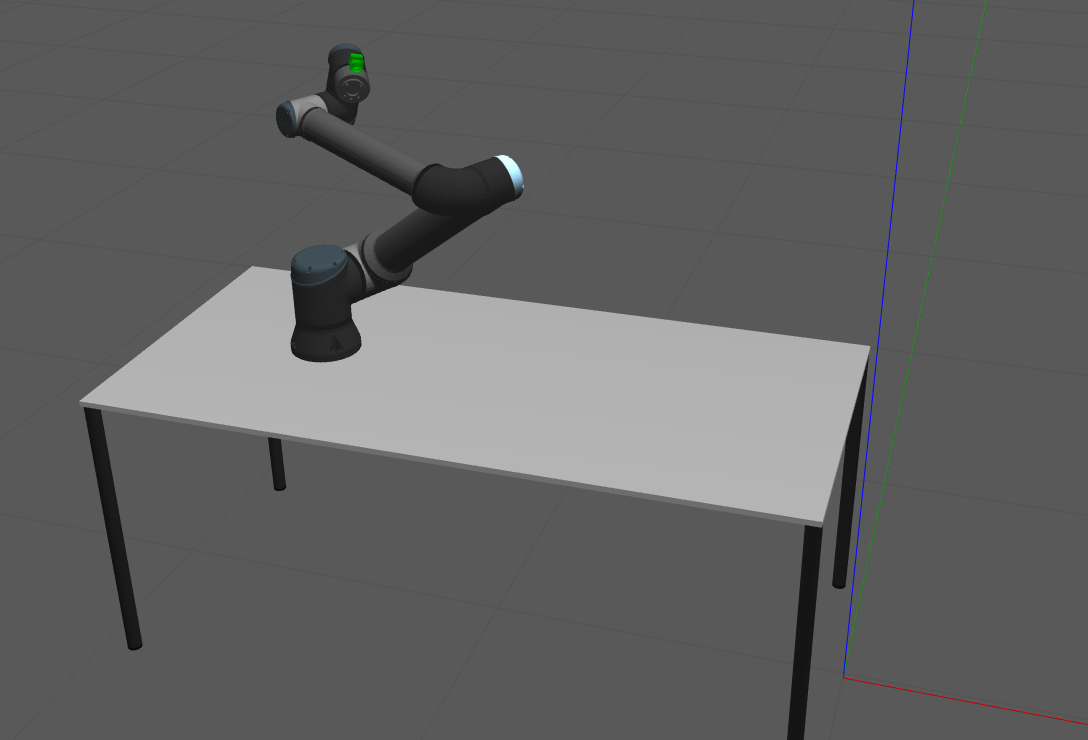
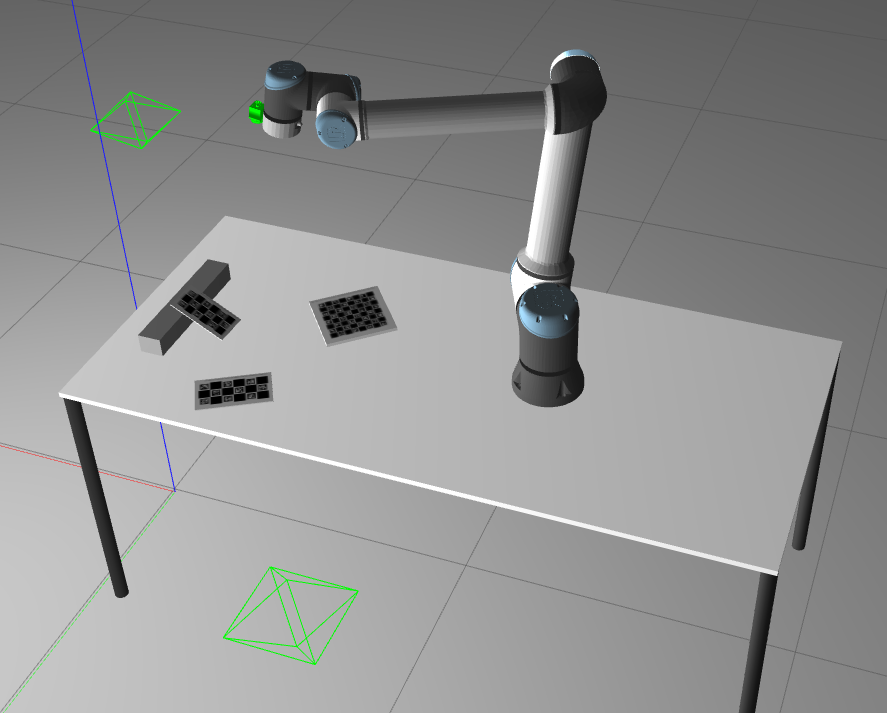
Close #781 . Calibration upd and running, readme udated.

diff --git a/atom_examples/rihmpbot/README.md b/atom_examples/rihmpbot/README.md
@@ -1,6 +1,6 @@
 # RIHMPBOT
 
-The **R**GB **i**n **h**and with **m**ultiple **p**atterns ro**bot** (**rihmpbot**) is a simulated robotic system used to evaluate hand eye calibrations in ATOM.
+The **R**GB **i**n **h**and with **m**ultiple **p**atterns ro**bot** (**rihmpbot**) is a simulated robotic system used to test calibrations with multiple patterns in ATOM.
 
 ![gazebo](docs/system.png)
 
@@ -15,11 +15,16 @@ The system contains the following topics:
   - /joint_states
 
 Since this is a systems to test calibration, where frame rate is not a critical issue, we restrained images topics to 10Hz.
-This is a simulated system, which can be seen in gazebo:
 
-![gazebo](docs/gazebo.png)
+The scene contains 3 static calibration patterns placed on top of the table:
 
-... and in rviz:
+  - charuco, size 170x100 millimeters, corners layout 3x6, aruco dictionary 6x6
+  - charuco, size 200x120 millimeters, corners layout 3x6, aruco dictionary 7x7
+  - charuco, size 200x200 millimeters, corners layout 8x8, aruco dictionary 4x4
+
+Note that ATOM is able to distinguish between patterns because each pattern has an unique aruco dictionary configuration. If a calibration configuration two patterns with the same aruco dictionary, ATOM calibration package configuration should abort.
+
+This is a simulated system, which can be seen in gazebo, as shown above, and in rviz, as shown next:
 
 ![rviz](docs/rviz.png)
 
@@ -45,9 +50,8 @@ As always, we recommend a careful reading of the [documentation](https://lardemu
 
 In this section, out goal is to describe the calibration pipeline for the **rihmpbot**.
 
-To calibrate, we will need a bagfile called [train.bag](https://drive.google.com/file/d/1_YYIaJfvP8G7_mBr3oT7S7RkVTymu2pb/view?usp=sharing), which contains a recording of the system's data when viewing a calibration pattern in several positions.
+To calibrate, we will need a bagfile called [train.bag](https://drive.google.com/file/d/1ryaW0MBhaUYH-kx_hle2ztkzLRCiuuLt/view?usp=sharing), which contains a recording of the system's data when viewing a calibration pattern in several positions.
 We produced the bagfile by bringing up the system and then recording a bagfile as described above.
-This is a bagfile with 140 seconds / 115MB for demonstration purposes. Typically, calibration bagfiles are larger.
 
 Download the bagfile and put it in **$ROS_BAGS/rihmpbot**.
 
@@ -66,7 +70,7 @@ Using ATOM conventions, we define name of the calibration package as **rihmpbot_
 
 ## Configuring the calibration
 
-This is the [config.yml](https://github.com/lardemua/atom/blob/noetic-devel/atom_examples/rihmpbot/rihmpbot_calibration/calibration/config.yml) that we wrote to define the calibration. There is a single sensor to be calibrated, named **rgb_hand**. The pattern is a charuco marker.
+This is the [config.yml](https://github.com/lardemua/atom/blob/noetic-devel/atom_examples/rihmpbot/rihmpbot_calibration/calibration/config.yml) that we wrote to define the calibration. There is a single sensor to be calibrated, named **rgb_hand**. As discussed before, we have three charuco patterns.
 The configuration file points to the train bagfile mentioned above, and the _anchored_sensor_ is not defined.
 
 To configure run:
@@ -89,7 +93,7 @@ To collect a dataset we run:
 
 And save a few collections.
 
-We will use as example the [train](https://drive.google.com/file/d/1YlFdik-38zhtI8fByY27XR7pxYdN-h_9/view?usp=sharing) dataset, which contains 11 collections. Some are shown below.
+We will use as example the [train](https://drive.google.com/file/d/1PJ-nb-BEBhcB2Nsn4M84ttXWGGQkLySQ/view?usp=sharing) dataset, which contains 14 collections. Some are shown below.
 
 Download and decompress the dataset to **$ATOM_DATASETS/rihmpbot/train**.
 
@@ -97,8 +101,8 @@ Collection |           rgb_hand
 :----------------:|:-------------------------:
 0 | ![](docs/rgb_hand_000.jpg)
 1 | ![](docs/rgb_hand_001.jpg)
-2 | ![](docs/rgb_hand_009.jpg)
-3 | ![](docs/rgb_hand_010.jpg)
+9 | ![](docs/rgb_hand_009.jpg)
+10 | ![](docs/rgb_hand_010.jpg)
 
 
 ## Running the Calibration
@@ -127,29 +131,3 @@ which are quite high, because of the incorrect pose of the sensors,  and ends up
 
 Which shows subpixel accuracy. This means the procedure achieved a successful calibration.
 
-During calibration We can see all collections in the system and, as the calibration progresses, the estimated transformations will be applied to the visualization. The table below shows the positioning of the **rgb_hand** sensor before the calibration starts (using nig 0.1 0.1), and after the calibration is carried out.
-
-
-View |           Before calibration             |           After calibration
-:----------------:|:-------------------------:|:-------------------------:
-All collections | ![](docs/3.png) |  ![](docs/4.png)
-Collection 0 | ![](docs/1.png) |  ![](docs/2.png)
-Collection 0 (top view)| ![](docs/5.png) |  ![](docs/6.png)
-
-## Evaluation
-
-From the [test](https://drive.google.com/file/d/1iKMODjk2m37TBB3tWavJfZlKlwx-WHWz/view?usp=sharing) bagfile, we collected a test dataset.
-
-The evaluation be conducted with a second dataset which has not been seen during calibration. We call these the test datasets.
-
-Download the [test](https://drive.google.com/file/d/16Vi6xo6kt2wEeFBWbTGrZdOL8DmT5ztt/view?usp=sharing) dataset, and decompress to **$ATOM_DATASETS/rihmpbot/test**.
-
-Then, carry out the evaluation using:
-
-    roslaunch rihmpbot_calibration full_evaluation.launch test_json:=$ATOM_DATASETS/rihmpbot/test/dataset.json train_json:=$ATOM_DATASETS/rihmpbot/train/atom_calibration.json
-
-Since we have a single sensor, we do not have reprojection errors. The error w.r.t. the ground truth is:
-
-![](docs/ground_truth_results.png)
-
-which shows sub-millimeter accuracy.

diff --git a/atom_examples/README.md b/atom_examples/README.md
@@ -10,7 +10,7 @@ System |           Name   |   Description
  <img src="rihbot/docs/table.png" width="100%"/> | [rihbot](https://github.com/lardemua/atom/tree/noetic-devel/atom_examples/rihbot) | **rihbot** (**R**GB **i**n **w**orld ro**bot**) is a simulated system with an rgb camera mounted on the end-effector of a robotic manipulator. A charuco 800x600mm, is placed on top of the table and does not move. This is often known as a variant of the hand-eye calibration problem called **eye in hand**.
  <img src="riwbot/docs/table.png" width="100%"/> | [riwbot](https://github.com/lardemua/atom/tree/noetic-devel/atom_examples/riwbot) | **rihbot** (**R**GB **i**n **h**and ro**bot**) is a simulated system containing an rgb camera mounted on a tripod, facing a robotic manipulator with a pattern attached to the end-effector. A charuco of 200x200mm is attached to the end_effector. This is often known as a variant of the hand-eye calibration problem called **eye in world**.
 <img src="jcpbbot/docs/table.png" width="100%"/> | [jcpbbot](https://github.com/lardemua/atom/tree/noetic-devel/atom_examples/jcpbbot) | **jcpbbot** (**j**oint **c**alibration with **p**osition **b**ias ro**bot**) is a simulated system with a configuration in all similar to **rihbot**. The difference here is that the we will also carry out the calibration of joint position bias parameters, in addition to the camera pose.
-
+<img src="rihmpbot/docs/table.png" width="100%"/> | [rihmpbot](https://github.com/lardemua/atom/tree/noetic-devel/atom_examples/rihmpbot) | **rihmpbot** (**r**gb **i**n **h**and with **m**ultiple **p**attenrs ro**bot**) is a simulated system with a configuration similar to **rihbot**, but in which three different calibration patterns are used simultaneously.
 
 <!-- Old name | Full new name | acronym
 :---:|:---:|:---:
